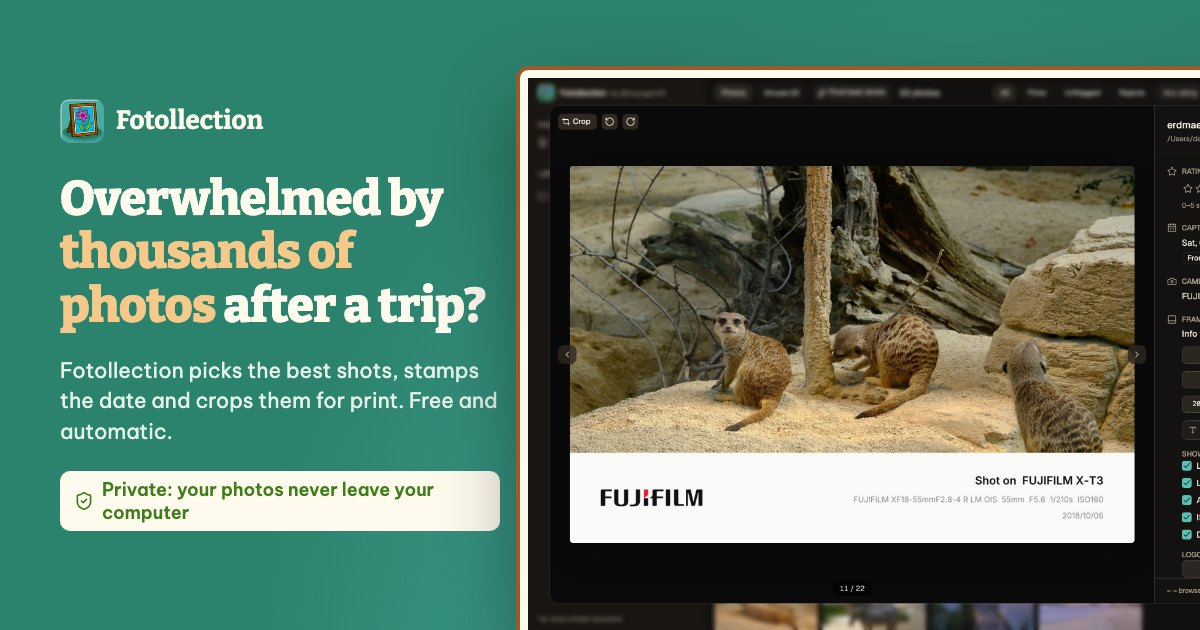
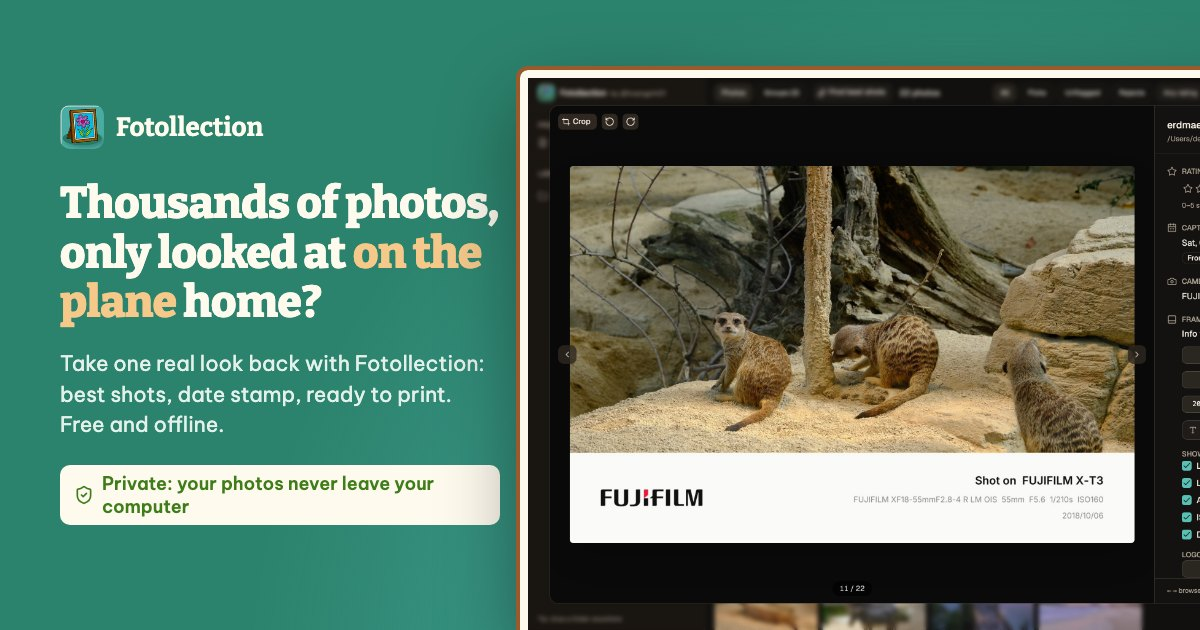
docs(status): progress of 2026-10-24; site opens with the plane line [FR-021]
STATUS now records the day's work (places, film stamp, logos, rotate
and straighten, print-size advice, kiosk sizes, quality audit, theme,
versioning, releases and the website) and the next steps: v0.1.0,
stage C, stage D, Normal mode. The website and its link previews open
with "thousands of photos, only looked at on the plane?".

diff --git a/site/screenshots/og.html b/site/screenshots/og.html
@@ -21,7 +21,7 @@
       .text { padding: 0 0 0 60px; }
       .brand { display: flex; align-items: center; gap: 12px; font: 700 26px 'Bitter', serif; }
       .brand img { width: 44px; height: 44px; border-radius: 10px; }
-      h1 { margin-top: 30px; font: 800 48px/1.12 'Bitter', serif; letter-spacing: -0.01em; }
+      h1 { margin-top: 30px; font: 800 44px/1.12 'Bitter', serif; letter-spacing: -0.01em; }
       h1 em { font-style: normal; color: #f6c98b; }
       p { margin-top: 22px; font-size: 21px; line-height: 1.45; color: #e3f1ea; }
       .shield { display: inline-flex; align-items: center; gap: 8px; margin-top: 24px; padding: 7px 14px; border-radius: 10px; background: #fffaee; color: #3f7d1a; font-weight: 600; font-size: 18px; }
@@ -47,8 +47,8 @@
     <script>
       const lang = new URLSearchParams(location.search).get('lang') === 'vi' ? 'vi' : 'en'
       const text = {
-        en: [['Overwhelmed by ', 'thousands of photos', ' after a trip?'], 'Fotollection picks the best shots, stamps the date and crops them for print. Free and automatic.', 'Private: your photos never leave your computer'],
-        vi: [['Bối rối với ', 'hàng nghìn ảnh', ' sau chuyến đi?'], 'Fotollection chọn ảnh đẹp, in ngày và crop đúng khổ in. Tự động và miễn phí.', 'Riêng tư: ảnh không bao giờ rời khỏi máy'],
+        en: [['Thousands of photos, only looked at ', 'on the plane', ' home?'], 'Take one real look back with Fotollection: best shots, date stamp, ready to print. Free and offline.', 'Private: your photos never leave your computer'],
+        vi: [['Chụp hàng nghìn ảnh, chỉ xem lại khi ', 'ngồi trên máy bay', '?'], 'Hãy thử một lần nhìn lại cùng Fotollection: ảnh đẹp nhất, dấu ngày, sẵn sàng để in. Miễn phí, offline.', 'Riêng tư: ảnh không bao giờ rời khỏi máy'],
       }[lang]
       const [before, accent, after] = text[0]
       const em = document.createElement('em')

diff --git a/docs/STATUS.md b/docs/STATUS.md
@@ -5,17 +5,19 @@
 > Living progress tracker. Update it **in the same commit** as the work ([ADR-0006](adr/0006-docs-as-code.md)).
 > Statuses: `Not Started` · `In Progress` · `Blocked` · `Done` · `Withdrawn`. An FR is `Done` only when its `fr_NNN_*` test passes ([TESTING.md §2](TESTING.md#2-requirement-traceability)).
 
-## Current phase: Phase 1 — MVP, Stages 1–3 done
+## Current phase: Phase 1 — MVP, Stages 1–3 done, first preview release under way
 
 **Where we are (2026-10-24).** The app works end to end for **JPEG, PNG and HEIC**:
 
-1. Open or drop a folder.
+1. Open or drop a folder; refresh it to pick up new photos.
 2. Cull with stars, flags and filters, helped by best-shot suggestions: groups of similar shots, the best of each with reasons, and Keep best.
-3. Preview with crop, date stamp and the "Shot on" info frame. The frame can be edited in the preview, and the print size can be Original or a custom one.
-4. Export exactly the filtered set.
+3. Preview with crop, quarter turns and straightening (±15°), a film-style date stamp with the place and a caption line, per photo or for all, and the "Shot on" info frame with bundled brand logos. Each print size shows whether the photo prints sharp, acceptably or pixelated, including the square CEWE kiosk sizes of dm and Rossmann.
+4. Export exactly the filtered set, at original quality.
 5. Save the work as a self-contained `.fotollection` document that opens the same on another machine.
 
-The interface is in English and Vietnamese. Measured performance meets every budget ([RESULT.md](RESULT.md)): preview 17 ms (faster than Chromium), export 18 photos/s, memory flat at 1.45 GB for 5,035 photos.
+The interface is in English and Vietnamese, themed from the logo (teal and wood, photos on near-neutral ground). Measured performance meets every budget ([RESULT.md](RESULT.md)): preview 17 ms (faster than Chromium), export 18 photos/s, memory flat at 1.45 GB for 5,035 photos, and the export keeps the original's colour and detail (mean ΔE2000 0.19).
+
+**Shipping.** Versioning and automatic releases are in place ([ADR-0021](adr/0021-versioning-and-automated-releases.md), [RELEASE.md](RELEASE.md)): a version change on `main` builds, tags and publishes the macOS and Windows installers. `v0.1.0-beta.1` is the trial run; `v0.1.0`, the first public preview, follows once it is checked. The website is live at <https://hoangphi01.github.io/fotollection/> (English and Vietnamese, [site/README.md](../site/README.md)).
 
 ### Done, by stage ([ROADMAP.md — Phase 1 work order](ROADMAP.md#phase-1-work-order-2026-10-23))
 
@@ -34,7 +36,16 @@ The interface is in English and Vietnamese. Measured performance meets every bud
    - HEIC input through the OS codecs (FR-001, [ADR-0017](adr/0017-heic-through-os-codecs.md));
    - best-shot suggestions with face and eye models, the Groups and compare views, and Keep best (FR-041, NFR-014, [ADR-0018](adr/0018-face-models-and-runtime.md));
    - accuracy scored on 95 hand-labelled photos, with grouping rebuilt on a layout and colour signature ([ADR-0019](adr/0019-grouping-by-visual-signature.md)).
-4. **Docs and tooling:**
+4. **Stage 3, continued (2026-10-24):**
+   - offline place names from GeoNames on the date line (FR-005, [ADR-0003](adr/0003-offline-geocoding-geonames.md));
+   - film-style DSEG14 date stamp with a caption line and LED glow, per photo or for all (FR-004, FR-033, FR-036, FR-044);
+   - bundled brand logos for the info frame ([ADR-0020](adr/0020-bundled-brand-logos.md));
+   - rotate and straighten in the crop editor, arrow keys included (FR-006, project schema v4–v5);
+   - print-size advice with sharp / acceptable / pixelated badges (FR-026) and the square kiosk sizes (FR-006);
+   - print-quality audit against a web editor (NFR-009, [RESULT.md §9](RESULT.md#9-print-quality));
+   - theme from the logo (STYLE_RULE §4);
+   - versioning, release automation and the website (FR-021, ADR-0021).
+5. **Docs and tooling:**
    - README with four measured charts and a Vietnamese version (`README.vi.md`);
    - `bench/run.sh`, `bench/batch.sh`, `measure_folder --analyze` and `eval_bestshot`;
    - `docs/RESULT.md`;
@@ -50,21 +61,22 @@ The interface is in English and Vietnamese. Measured performance meets every bud
 
 ### Next, in order
 
-1. **Normal mode (FR-048, NFR-015), asked for next.** It is the "instant" counterpart to the current Professional mode: open → keep/drop → export at 300 DPI for the print size and q90, measured against Professional. Start with the export benchmark (print-sized resize + q90, reduced-scale decode), then the simplified UI and the mode switch.
-2. **Stage 3, best-shot suggestions (FR-041, NFR-014).** ✓ Models and licences ([ADR-0018](adr/0018-face-models-and-runtime.md)). ✓ `culling/` core module: grouping, metrics, faces and eyes, scoring with reasons, within NFR-014. ✓ Background analysis job with its cache ([DATABASE §8.1](DATABASE.md#81-analysis-cache)) and the IPC commands `analyze_library`, `list_groups`, `keep_best`. ✓ Groups view ("Best of N" with reasons), compare view with a bar per measure and closed-eye marks, Keep best (per group / all clear groups) and Keep this one, in English and Vietnamese. ✓ Accuracy scored on 95 hand-labelled photos: grouping 3 → 15 of 22 groups with no wrong group, picks 6/6 ([ADR-0019](adr/0019-grouping-by-visual-signature.md), [RESULT.md §8](RESULT.md#8-best-shot-accuracy)). Left: check the flow by hand in the app; read `SubSecTimeOriginal` for bursts within one second; an embedding model for the 7 groups still missed (big pose or framing changes); more labelled folders from other cameras.
-3. ✓ **Stage 3, HEIC input (FR-001)** via the OS codecs ([ADR-0017](adr/0017-heic-through-os-codecs.md)). Follow-up: HEIC thumbnails through ImageIO's thumbnail API (faster than a full decode).
-4. **Loose ends:**
+1. **Release `v0.1.0`:** finish the `v0.1.0-beta.1` trial run, smoke-test the installers, then `scripts/release.sh 0.1.0`.
+2. **Stage C, manual places and renaming (FR-032, FR-005):** search a place, set it for one or many photos, rename a place everywhere; project schema v6. Ships as `v0.2.0`.
+3. **Stage D, place suggestions from phone photos (FR-031):** borrow GPS from photos taken at the same time and place, with confidence levels, measured on a mixed camera + phone folder, with a new ADR.
+4. **Normal mode (FR-048, NFR-015):** open → keep/drop → export at 300 DPI and q90, measured against Professional.
+5. **Loose ends:**
    - FR-022 filters by date, camera, GPS and DPI, and multi-select;
-   - the whole-app memory run with 5,035 photos, using a separate app-data folder (NFR-004);
-   - cold-start time (NFR-010);
+   - `SubSecTimeOriginal` for bursts within one second; HEIC thumbnails through ImageIO;
+   - the whole-app memory run with 5,035 photos (NFR-004) and cold-start time (NFR-010);
+   - Windows code signing through SignPath Foundation ([ADR-0009](adr/0009-unsigned-distribution.md));
    - German UI later (FR-020).
-5. **Phase 2 queue:**
+6. **Phase 2 queue:**
    - swipe culling (FR-046);
-   - Photo Style looks (FR-039);
-   - film looks like Fujifilm's film simulations (FR-047);
+   - Photo Style looks (FR-039) and film looks (FR-047);
    - print presets (FR-038);
-   - per-photo overrides (FR-044);
-   - trip journal, an offline report drafted from the album (FR-049).
+   - trip journal with instax-style entries from each editing session (FR-049);
+   - print basket (FR-050) and landmark recognition (FR-051).
 
 ## Phase 0 — Foundation
 
